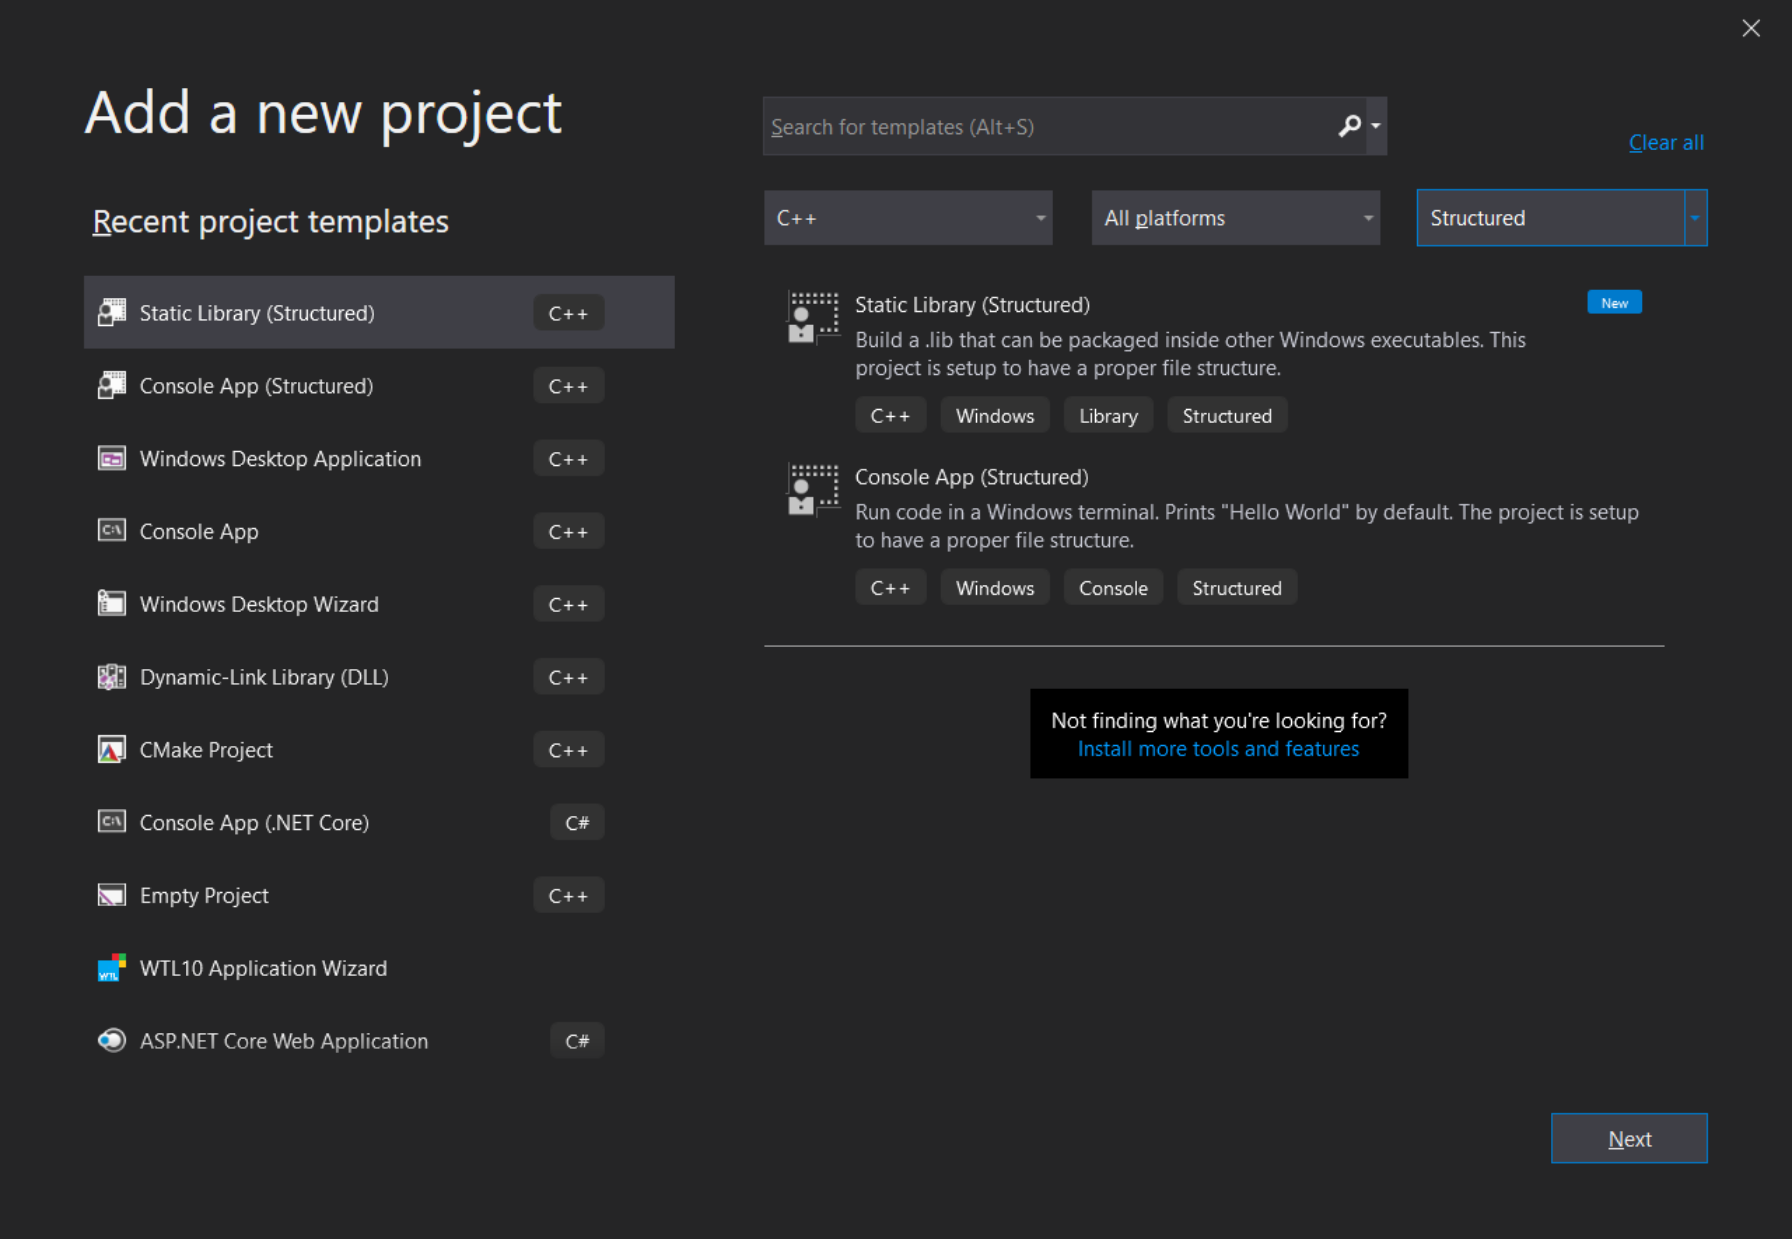
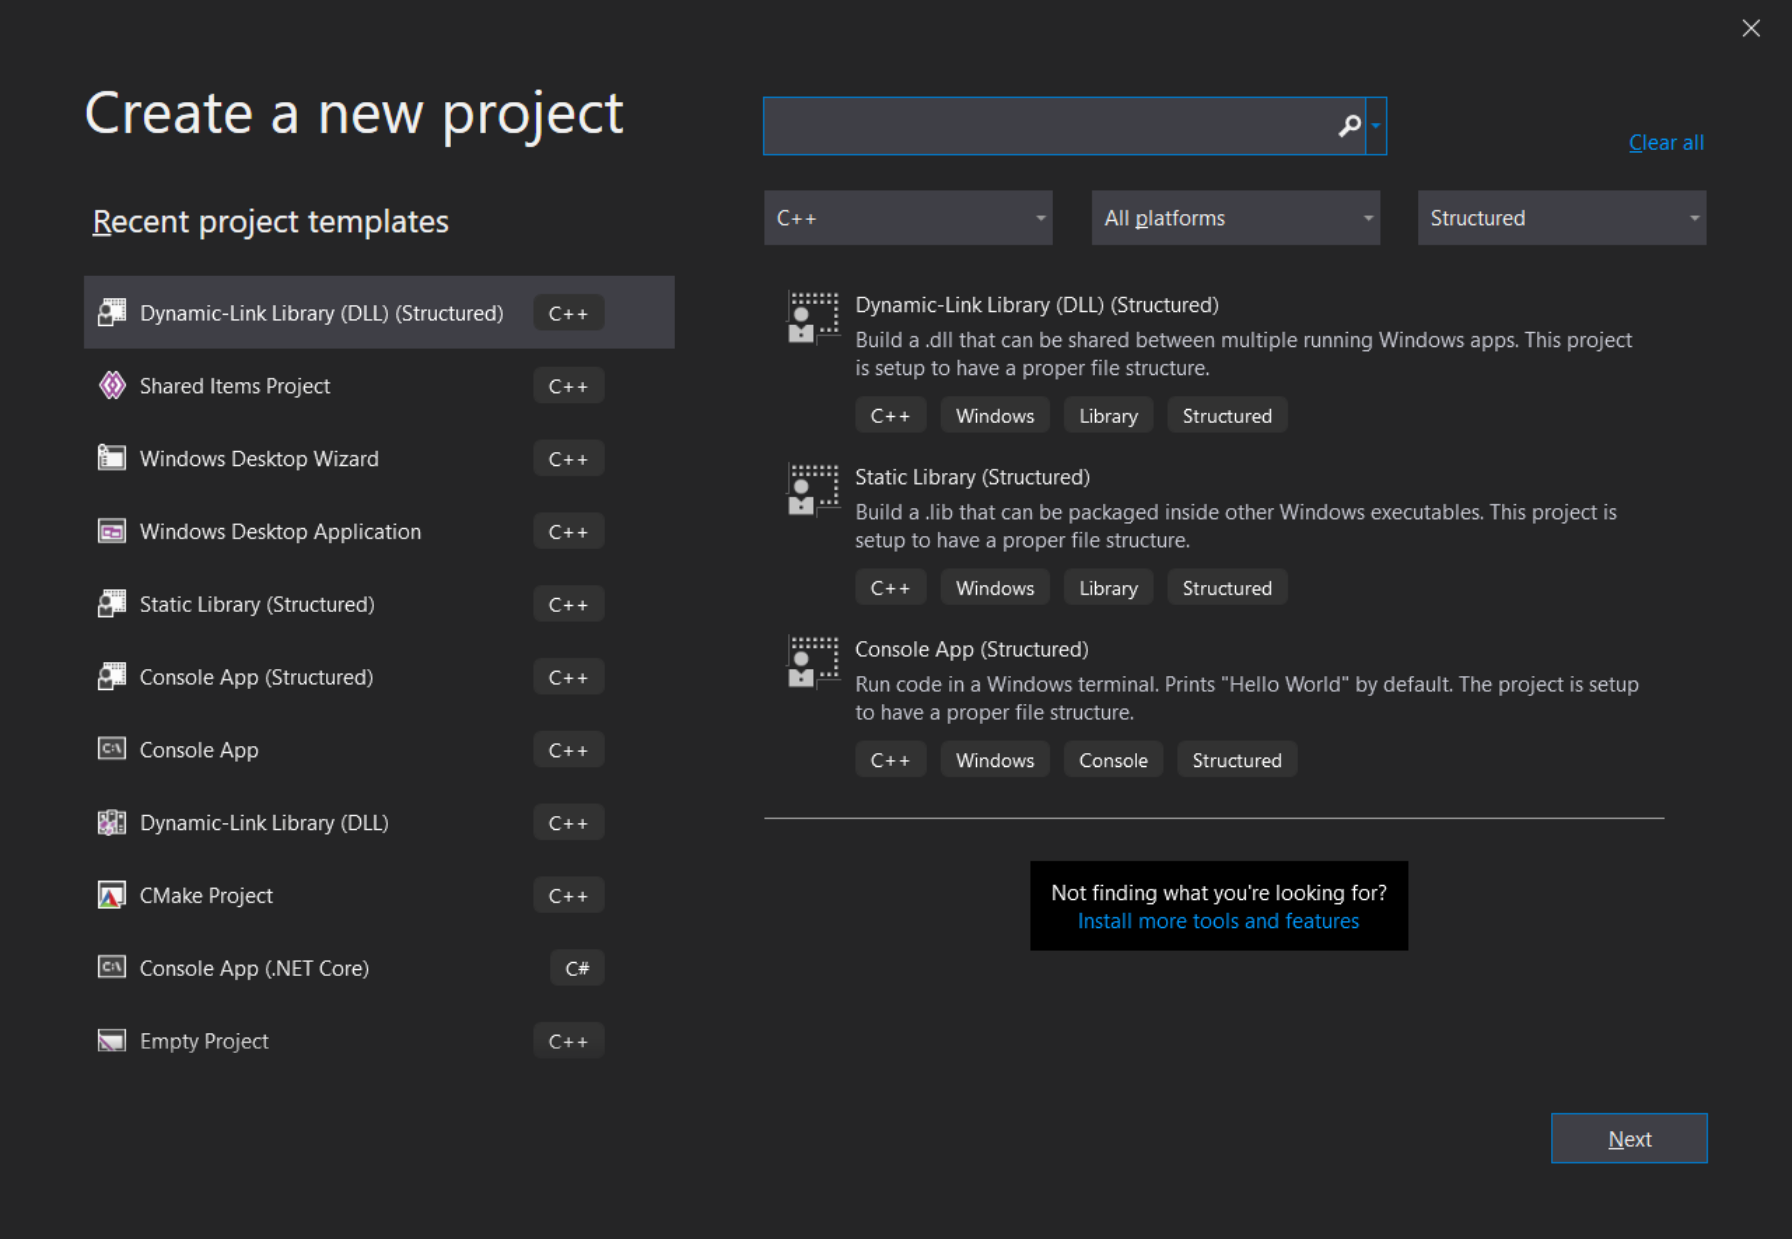
feat: add dynamic-link library as a structured template

diff --git a/bar/inc/bar/foo.h b/bar/inc/bar/foo.h
@@ -1,0 +1,23 @@
+#ifndef BAR_FOO_H_
+#define BAR_FOO_H_
+
+// TODO: If you wish to change DLLTEMPLATE_EXPORTS
+// to something else, make sure you update the
+// Preprocessor Definitions (Under C/C++ >> Preprocessor)
+#ifdef DLLTEMPLATE_EXPORTS
+#define DLLTEMPLATE_API __declspec(dllexport)
+#else
+#define DLLTEMPLATE_API __declspec(dllimport)
+#endif
+
+
+// Some shared library
+namespace bar
+{
+	// Some public function
+	DLLTEMPLATE_API void Foo();
+}
+
+
+#endif //BAR_FOO_H_
+

diff --git a/bar/src/main.cpp b/bar/src/main.cpp
@@ -1,0 +1,16 @@
+#include "pch/pch.h"
+#include <windows.h>
+
+bool WINAPI DllMain(HMODULE hModule, const DWORD reason, LPVOID lpReserved)
+{
+	switch (reason)
+	{
+	case DLL_PROCESS_ATTACH:
+	case DLL_THREAD_ATTACH:
+	case DLL_THREAD_DETACH:
+	case DLL_PROCESS_DETACH:
+		break;
+	}
+	return true;
+}
+

diff --git a/hello/src/main.cpp b/hello/src/main.cpp
@@ -1,9 +1,11 @@
 #include "pch/pch.h"
 #include <foo/bar.h>
+#include <bar/foo.h>
 #include <iostream>
 
 int main()
 {
 	foo::Bar();
+	bar::Foo();
 	std::cout << "Hello World!\n";
 }

diff --git a/bar/src/bar/foo.cpp b/bar/src/bar/foo.cpp
@@ -1,0 +1,8 @@
+#include "pch/pch.h"
+#include "bar/foo.h"
+#include <iostream>
+
+void bar::Foo()
+{
+	std::cout << "Hello from bar::Foo!\n";
+}

diff --git a/bar/pch/pch.h b/bar/pch/pch.h
@@ -1,0 +1,8 @@
+#ifndef PCH_H
+#define PCH_H
+
+// Windows
+#define WIN32_LEAN_AND_MEAN
+#include <windows.h>
+
+#endif //PCH_H

diff --git a/hello/pch/pch.h b/hello/pch/pch.h
@@ -6,5 +6,6 @@
 
 // Libraries
 #include <foo/bar.h>
+#include <bar/foo.h>
 
 #endif //PCH_H

diff --git a/bar/pch/pch.cpp b/bar/pch/pch.cpp
@@ -1,0 +1,2 @@
+#include "pch.h"
+

diff --git a/README.md b/README.md
@@ -14,13 +14,22 @@ The design of this structure has been made to be as intuitive as possible. Thing
 
 ## Getting Started
 
+### Running hello.exe
+
+Build the solution and place `bar's` compiled DLL into the same directory as `hello's`.
+
+Example:
+
+- Build the solution in `Debug` mode with `x86`
+- Copy `bar.dll` from `bin\bar\Debug\Win32\bar.dll`
+- Paste `bar.dll` to `bin\hello\Debug\Win32\`
+
 ### Install Templates
 
 - Place the all the files located in the `templates` directory inside `%USERPROFILE%\Documents\Visual Studio <version>\Templates\ProjectTemplates\Visual C++ Project`
 - Restart `Visual Studio`
 - Now create a new project
 - In the new project view, change your filters to `C++` and the project type to `Structured`
-
 
 ![New Project View](./img/new_project.png "New Project View")
 
@@ -31,7 +40,6 @@ In order to disable Visual Studio's filters and use the physical files located o
 You'll need to do this `every time` you create a `new structured project`.
 
 ![Show All Files](./img/show_all_files.png "Show All Files")
-
 
 ![Showing All Files](./img/showing_all_files.png "Showing All Files")
 
